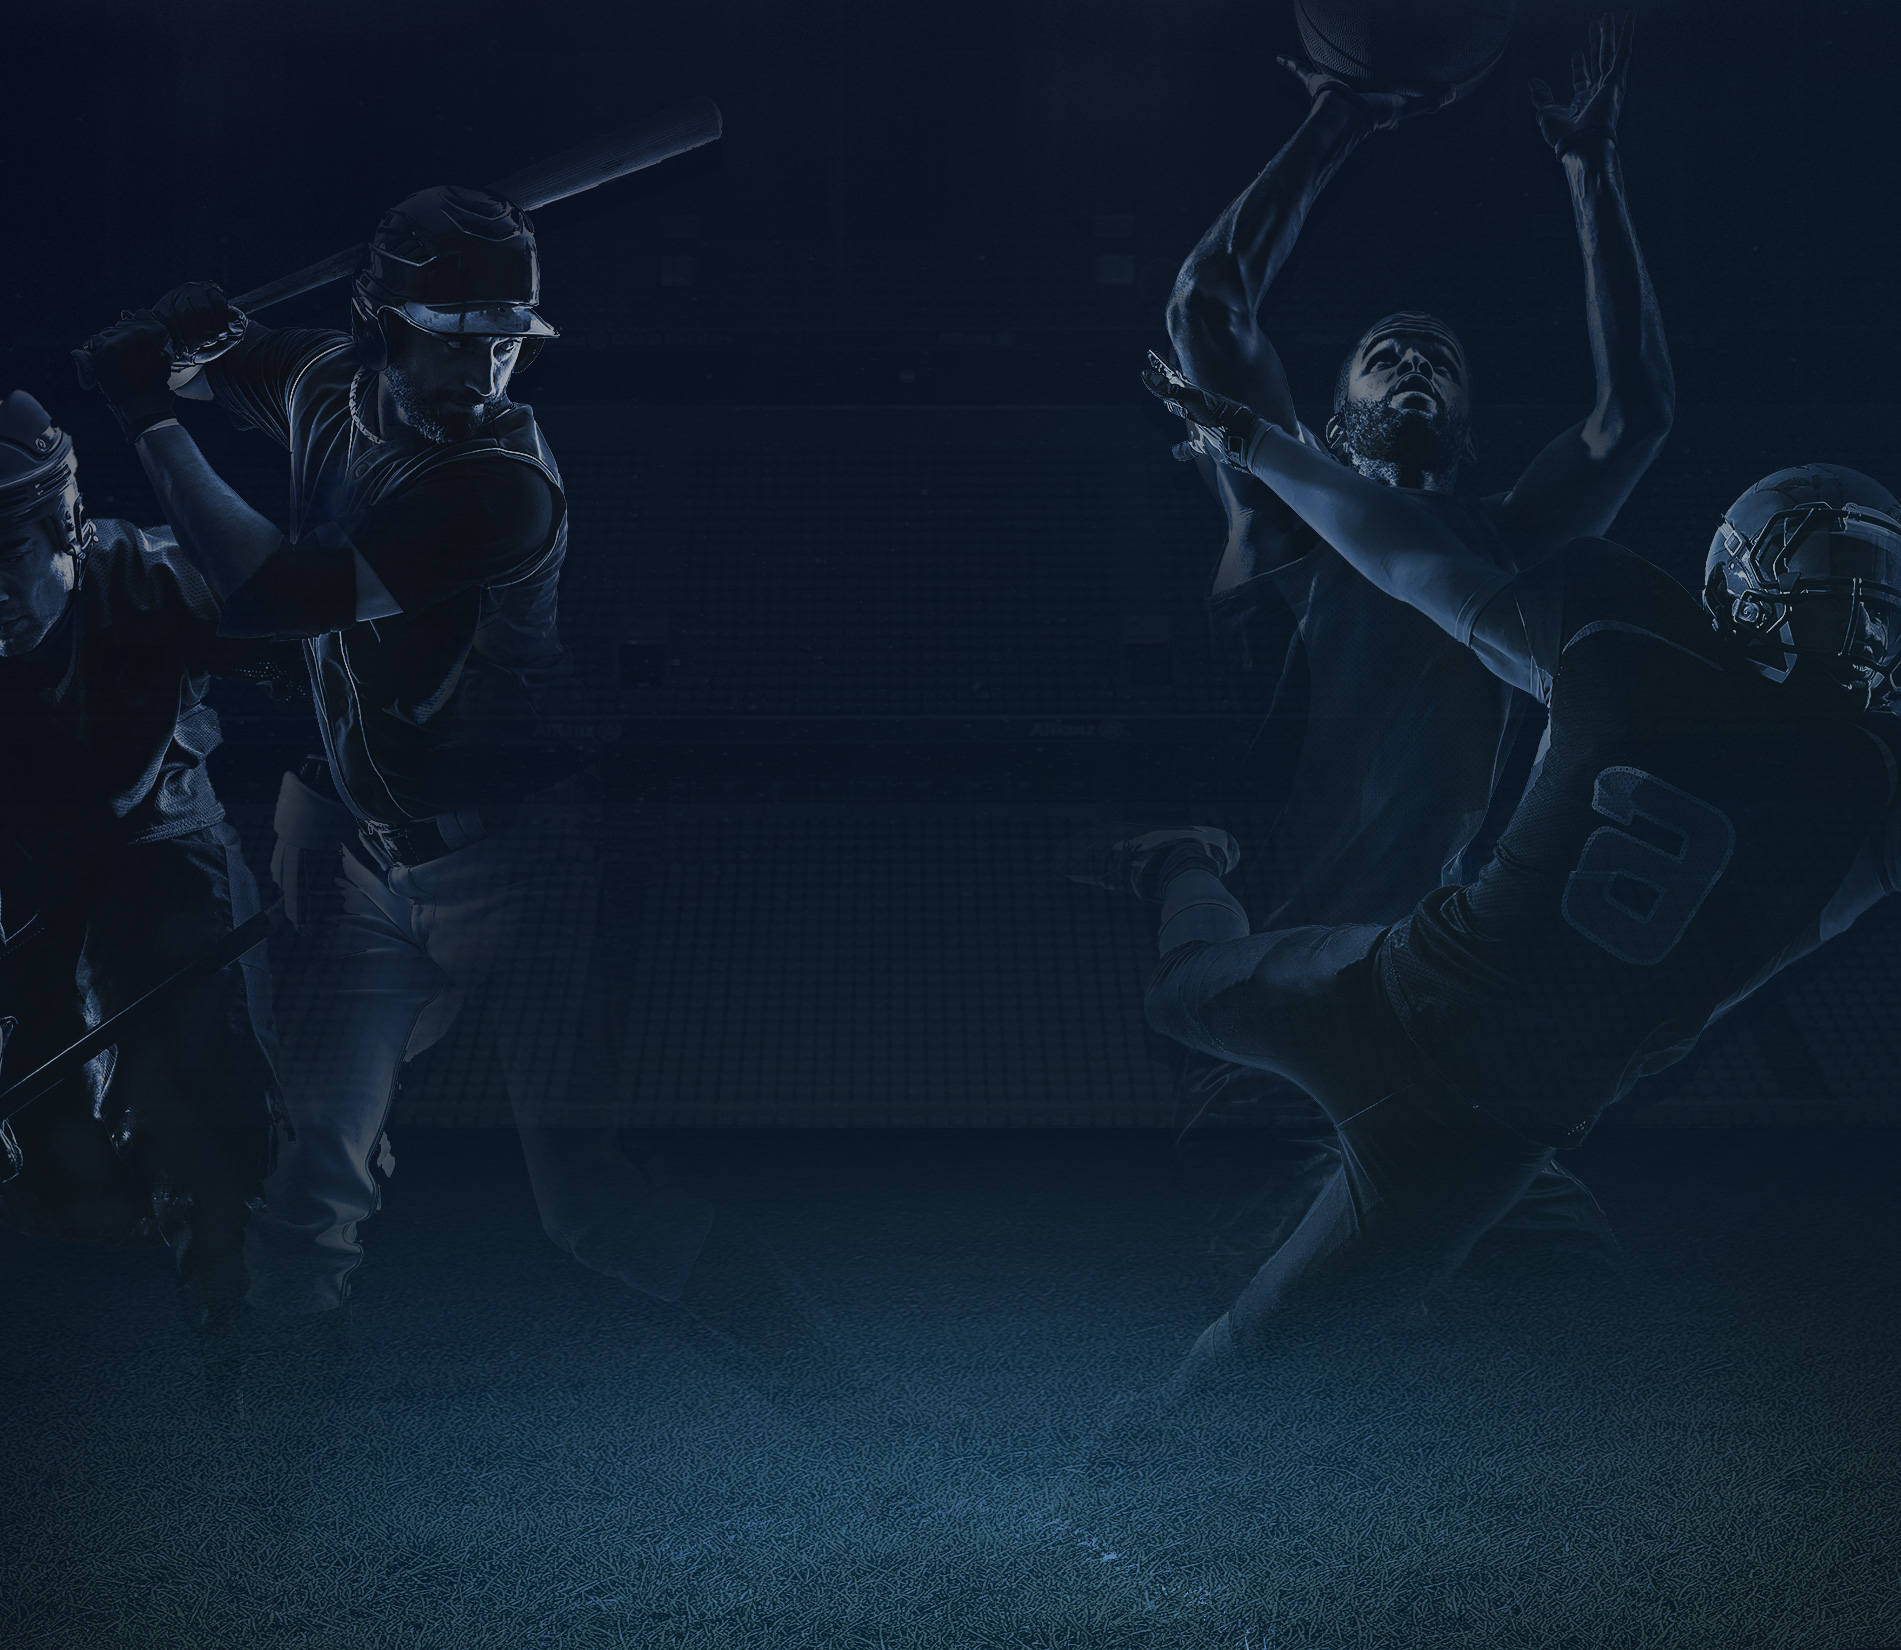
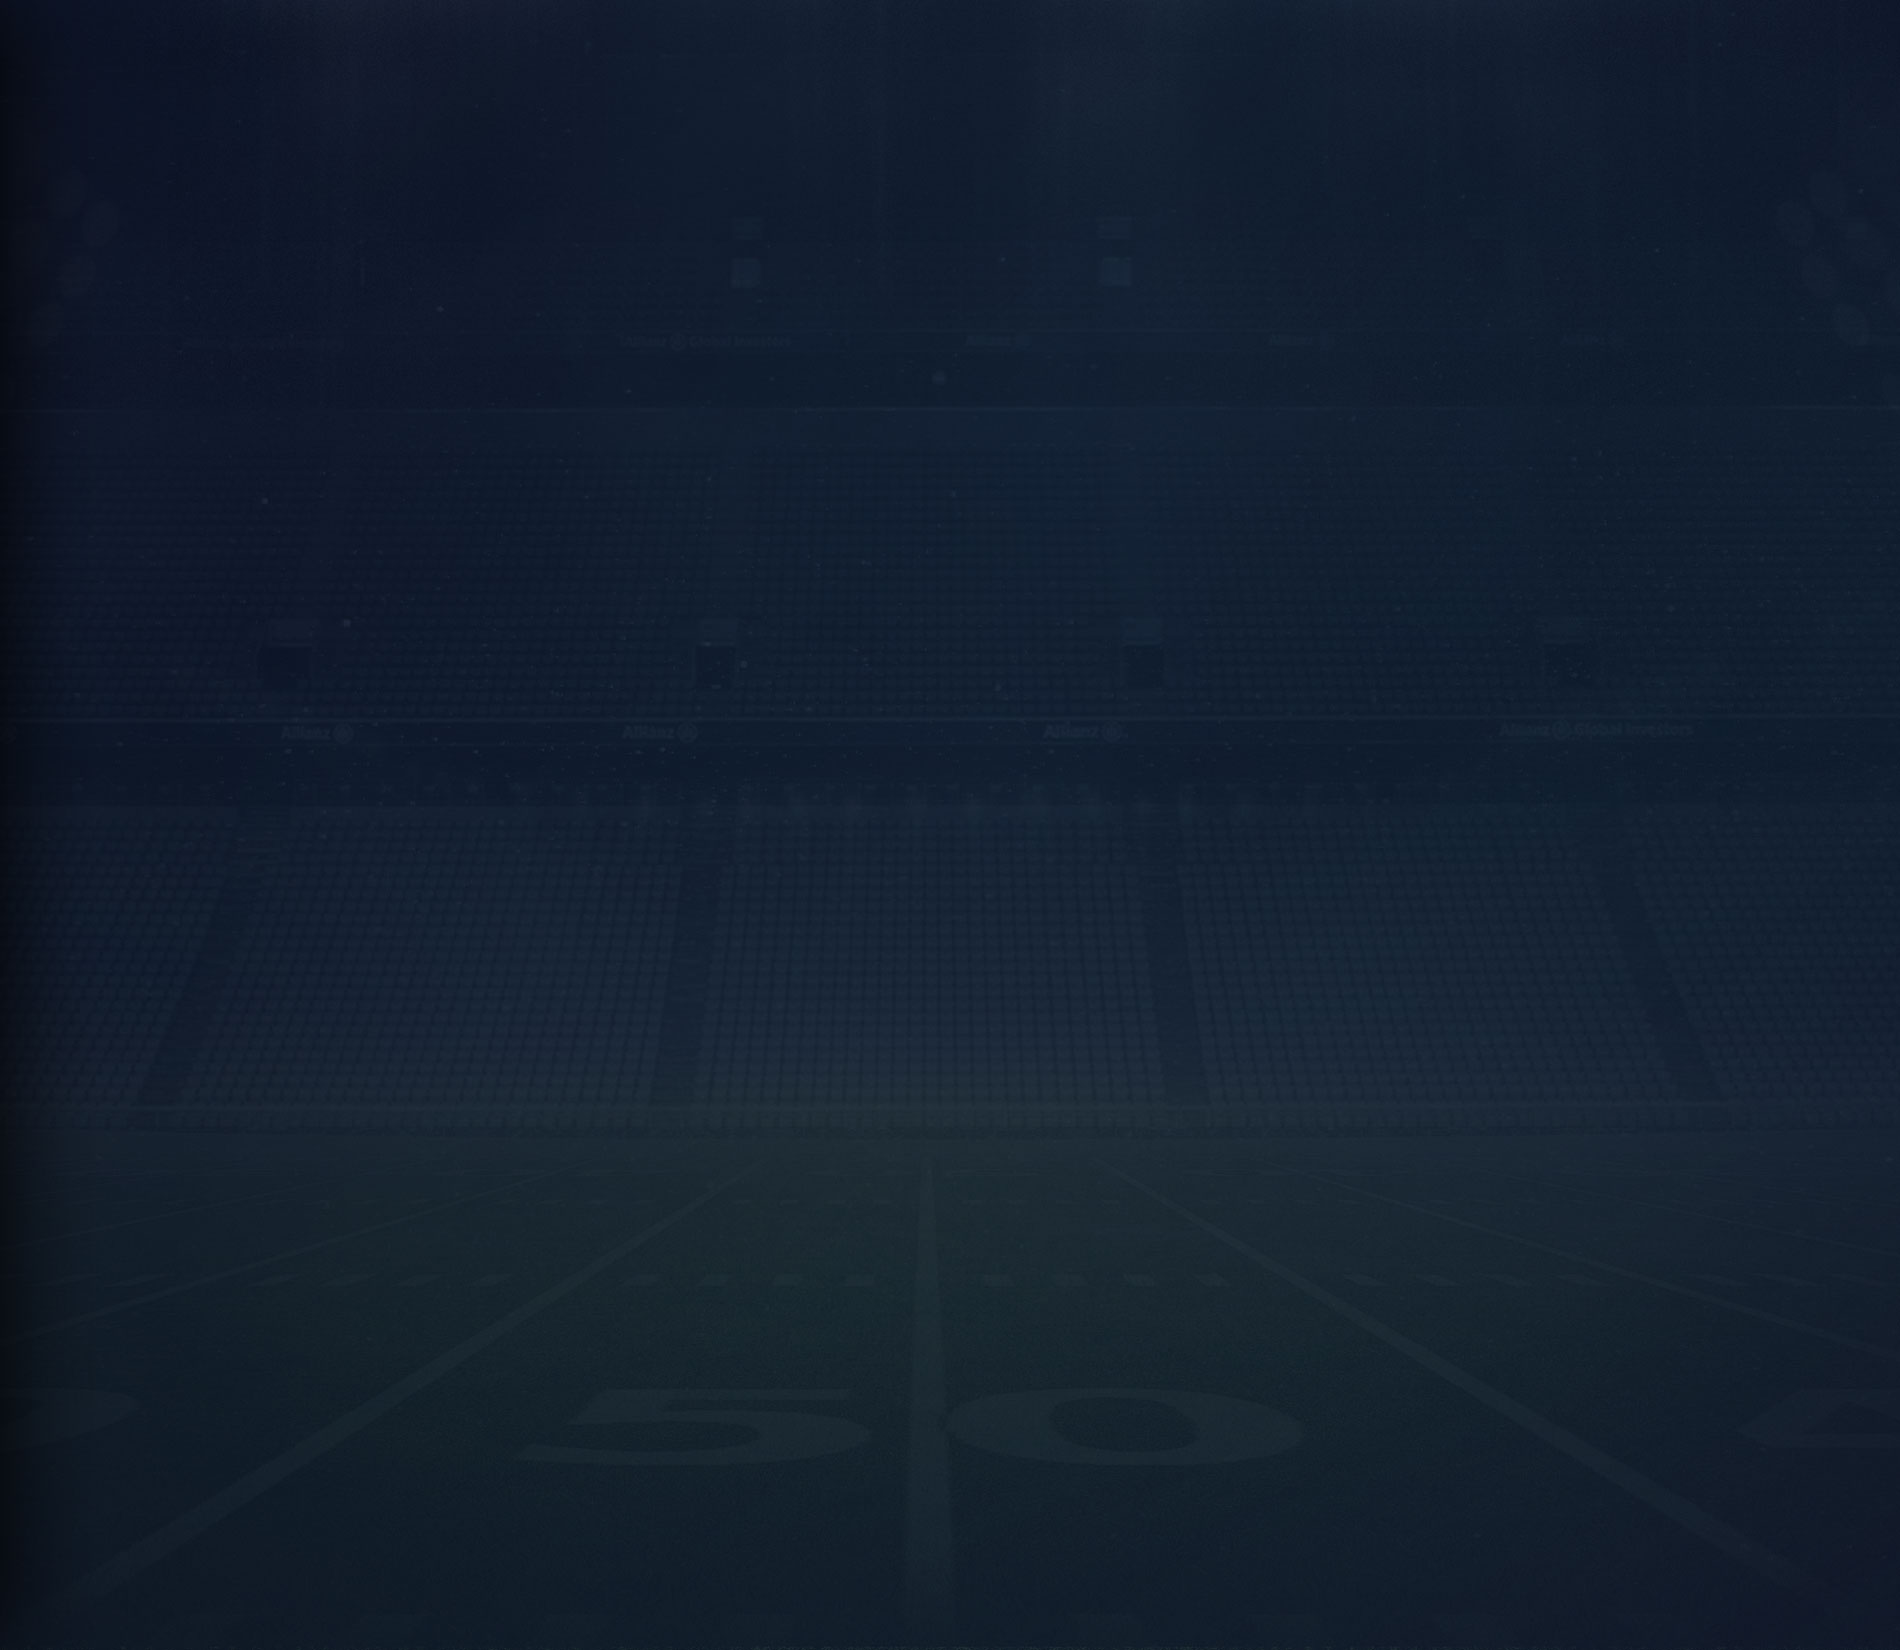
removed logged-out-footer completely since that whole animation style is gone. updated markup for new login along with copy updates. added in new bg image for login.

diff --git a/static/src/sass/account.scss b/static/src/sass/account.scss
@@ -10,6 +10,7 @@ $account-height: 600px;
 
 .account {
   // this section is in the __content but above the v-middle on the screen
+  overflow: hidden;
   &__header {
     display: block;
     margin: 0 auto;
@@ -39,6 +40,7 @@ $account-height: 600px;
   }
 
   &__left {
+    float:left;
     background: #fff;
     max-width: $width-left;
     min-height: 100%;
@@ -46,9 +48,9 @@ $account-height: 600px;
     text-align: center;
     width: 34%; // ratio from comp, 982px/2880px
     z-index: 1;
+    height: 100vh;
 
     &__content {
-      padding-bottom: 150px; // max height of footer
 
       &__checkmark-success {
         width: 250px;
@@ -72,7 +74,6 @@ $account-height: 600px;
         max-width: 400px;
         margin: 0 auto;
         // this sizes makes sure the biggest form (registration) is kept intact
-        min-height: 350px;
 
         .split_field_group {
           text-align: left;
@@ -240,21 +241,32 @@ $account-height: 600px;
         }
       }
     }
+    footer{
+      position: absolute;
+      bottom: 0;
+      padding: 30px;
+      width: 100%;
+      left: 0;
+      p{
+        font-size: 14px;
+      }
+    }
   }
 
   &__right {
-    background: url(../img/blocks/account/register/bg.jpg) no-repeat top right;
-    background-size: auto 100%; // default to height 100%, media query covers aspect >= 1:1
-    height: 100%;
+    float: left;
+    background: url(../img/blocks/account/register/bg.jpg) no-repeat bottom center;
+    background-size: cover; // default to height 100%, media query covers aspect >= 1:1
+    height: 100vh;
+    width: 66%;
     overflow: hidden;
-    position: fixed;
-    right: 0;
     text-align: center;
+    display: block;
+    position: absolute;
     top: 0;
+    right: 0;
 
     &__inner {
-      background: url(../img/blocks/live-countdown/glow.png) no-repeat center center;
-      background-size: 100% auto;
       margin: 0 auto;
       padding-bottom: 70%; // important! same height as width via padding-bottom
       position: relative;
@@ -299,55 +311,18 @@ $account-height: 600px;
         }
       }
     }
+    &__bottom{
+      max-width: 1100px;
+      position: absolute;
+      bottom: 30px;
+      left: 50%;
+      transform: translateX(-50%);
+    }
   }
 
   &--register {
     .account__header {
       padding: 4vh 0 3vh;
-    }
-  }
-}
-
-// ratio of width/height that requires change of background to be width 100%
-@media (min-aspect-ratio: 21/12) {
-  .account__right {
-    background-size: 80% auto;
-  }
-}
-
-@media (min-width: 1440px) {
-  .account__right {
-    padding-left: 490px;
-    width: 100%;
-
-    &__inner {
-      max-width: 1150px;
-    }
-  }
-}
-
-@media (min-width: 1025px) and (max-width: 1439px) {
-  .account__right {
-    width: 66%;
-  }
-}
-
-@media (max-width: 1024px) {
-  .account {
-    &__left {
-      width: 44%;
-
-      &__footer {
-        width: 44%;
-      }
-    }
-
-    &__right {
-      width: 56%;
-
-      &__inner {
-        width: 80%; // since width of __right goes up 10%, so does this
-      }
     }
   }
 }
@@ -361,23 +336,3 @@ $account-height: 600px;
   }
 }
 
-@media (max-width: 768px) {
-  .account {
-    &__left {
-      margin: 0 auto;
-      width: 100%;
-
-      &__content__form {
-        width: 80%;
-      }
-
-      &__footer {
-        width: 100%;
-      }
-    }
-
-    &__right {
-      display: none;
-    }
-  }
-}

diff --git a/mysite/templates/registration/base.html b/mysite/templates/registration/base.html
@@ -25,16 +25,11 @@
     </div>
 
     {% block account_footer %}
-      <a href="{% url 'register' %}" class="logged-out-footer">
-        <div class="logged-out-footer__bait">
-          Don't have an account?
-        </div>
-        <div class="logged-out-footer__hook">
-          Create an account
-          <span class="logged-out-footer__arrow"></span>
-        </div>
-      </a>
+      <footer class="logged-out-footer">
+        <p>Don't have an account? <a href="{% url 'register' %}">create one.</a></p>
+      </footer>
     {% endblock account_footer %}
+
 
   </div>
 
@@ -42,10 +37,13 @@
   <div class="account__right">
     <div class="account__right__inner">
       <div class="account__right__inner__content">
-        <div class="account__right__inner__content__title">It's anyone's game</div>
+        <div class="account__right__inner__content__title">NFL</div>
         <div class="account__right__inner__content__separator"></div>
         <div class="account__right__inner__content__text">sign up &amp; get up to $200 matched bonus</div>
       </div>
+    </div>
+    <div class="account__right__bottom">
+      <p>Draftboard will deposit $1 (the “Bonus”) into the account of any “User” who signs up for the Website. Bonus will be removed from the user’s account 7 days from the date the account was opened, except in situations where User has been present in at least one completed contest.</p>
     </div>
   </div>
   {% endblock right_content %}

diff --git a/static/src/sass/app.scss b/static/src/sass/app.scss
@@ -26,7 +26,6 @@ Hello WOrld!
 
 // Account pages, such as /login, /register
 @import "./account.scss";
-@import "./blocks/logged-out/logged-out-footer.scss";
 
 // Company related static pages, such as /about, /terms-conditions
 @import "./layouts/layout-company.scss";
